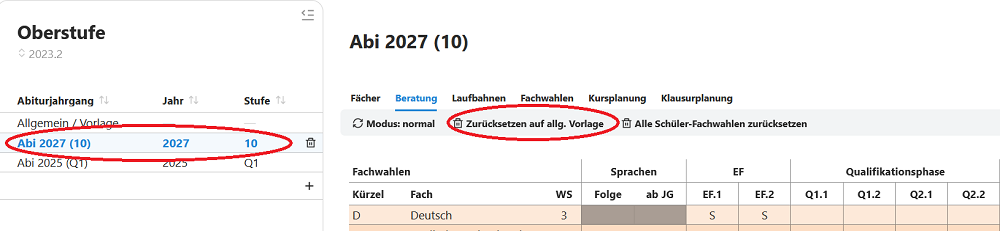
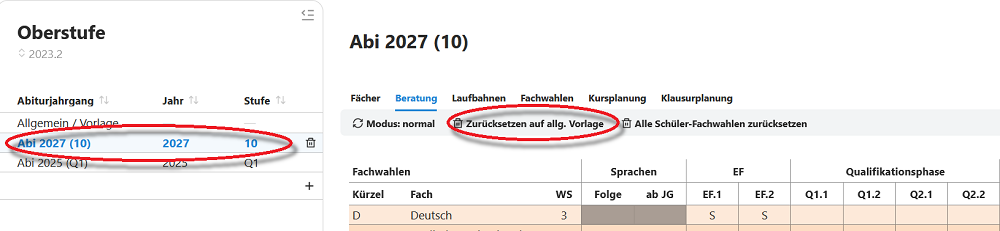
Tippfehler, Zeilenumbrüche korrigiert; Schlagschatten in Grafik hinzugefügt

Changed region(s): [[0.0, 0.5455, 0.31, 0.7576], [0.434, 0.4545, 0.62, 0.6667], [0.62, 0.5455, 0.651, 0.5758]]

diff --git a/webclient/gost/beratung/index.md b/webclient/gost/beratung/index.md
@@ -3,15 +3,17 @@
 ## Vorlage Beratungsbogen
 Im Beratungsbogen kann unter **Allgemein/Vorlage** eine Standardvorlage erstellt werden.
 
-Im Beispiel sind *M* und *Sp* belegt, da diese Fächer - ebenso wie *D* - eine Pflichtbelegung darstellen.
+Im Beispiel sind *M* und *SP* belegt, da diese Fächer - ebenso wie *D* - eine Pflichtbelegung darstellen.
 
 Der Einsatz solcher Vorlagen ist optional, kann aber den Beratungsprozess entlasten. Besonders wenn SuS die Wahlen als Grundlage selbst ausfüllen, lassen sich hier Fehler abfangen.
 
-![Eine Vorlage, bei der Mathe und Sport in der EF schon belegt sind.](./graphics/SVWS_Oberstufe_Beratung_1.png "Die Beratungsbögen können optional mit schon ausgefüllten Belegungen starten, etwa um Pflichtkurse schon einzutragen.") 
+![Eine Vorlage, bei der Mathe und Sport in der EF schon belegt sind.](./graphics/SVWS_Oberstufe_Beratung_1.png "Die Beratungsbögen können optional mit schon ausgefüllten Belegungen starten, etwa um Pflichtkurse schon einzutragen.")
 
 ## Vorlage in Abschnitt übernehmen
-Nach Auswahl einer der angelegten Abiturjahrgänge kann für diesen die **Vorlage geladen** werden.  
+Nach Auswahl einer der angelegten Abiturjahrgänge kann für diesen die **Vorlage geladen** werden.
+
 Ebenso kann diese Vorlage jetzt noch einmal **individuell für die ausgewählte Jahrgangsstufe angepasst** werden.
+
 Diese Vorlage wird beim späteren Export der Schülerdateien, etwa in die \*.lp-Dateien, die nun die alten LuPO-Schülerdateien ersetzen, übernommen werden.  
 
 ![Die Vorlage wird in einem Jahrgang übernommen](./graphics/SVWS_Oberstufe_Beratung_2.png "Wählen Sie einen Jahrgang und übernehmen Sie die aktuelle Vorlage für diesen.") 
@@ -19,6 +21,7 @@ Diese Vorlage wird beim späteren Export der Schülerdateien, etwa in die \*.lp-
 Klicken Sie in einem gewählten Jahrgang auf **Zurücksetzen auf allg. Vorlage**, um die aktuell konfigurierte Vorlage in einem Jahrgang zu aktivieren.
 
 ## Beratungslehrer hinterlegen
+
 Im Feld rechts neben der Beratungsbogenvorlage können **Beratungslehrer der Stufe** hinterlegt werden.  
 
 ![Die Beratungslehrer werden in einem Jahrgang hinterlegt](./graphics/SVWS_Oberstufe_Beratung_4.png "Hinterlegen Sie die Beratungslehrer des Jahrgangs.") 
